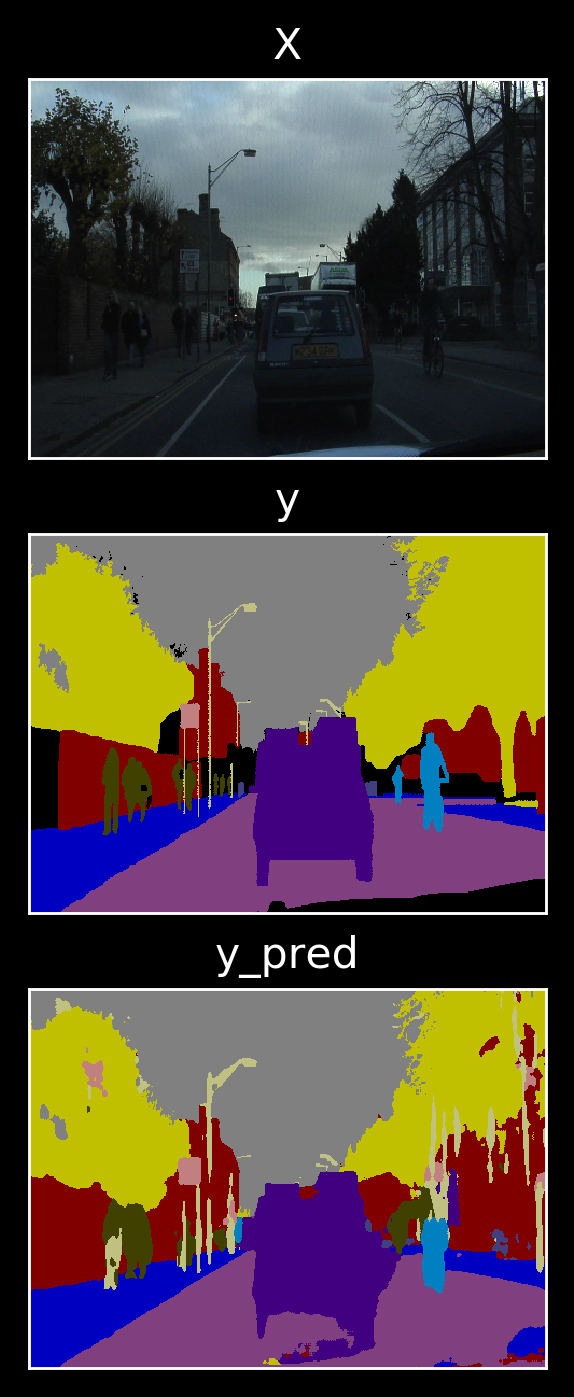
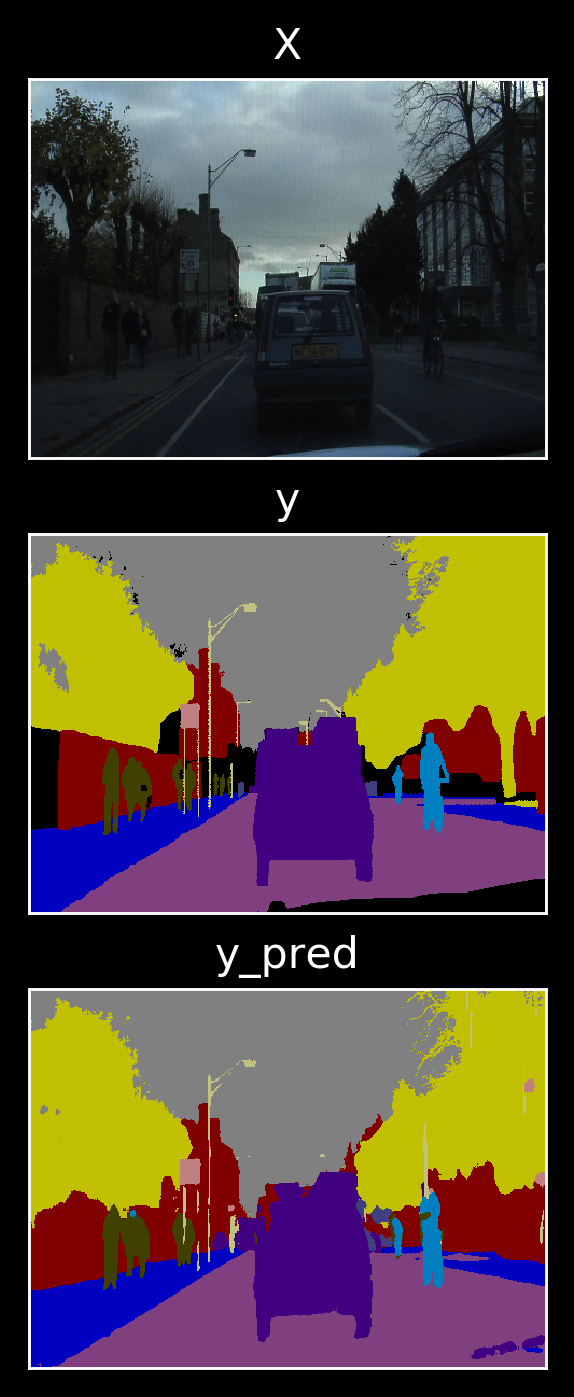
update Tiramisu results

diff --git a/README.md b/README.md
@@ -184,13 +184,13 @@ The following table describes training hyperparameters.
 | 224 x 224 | 200    | 3          | 100      | RMSprop   | 1e-3 | 0.995   | 20%     |
 | 352 x 480 | 200    | 1          | 50       | RMSprop   | 1e-4 | 1.000   | 20%     |
 
--   random vertical flips of images during training
+-   random _horizontal_ flips of images during training
+    -   the paper says vertical, but their implementation clearly shows
+        horizontal flips (likely a typo). Horizontal make more sense than
+        vertical anyway and produces empirically better test results
 -   batch normalization statistics computed _per batch_ during training,
     validation, and testing
--   median frequency balancing of class labels ([Eigen et al. (2014)][])
-    -   weighted categorical cross-entropy loss function
--   local contrast normalization of inputs ([LeCun et al. (2009)][])
--   skip connections ([Jégou et al. (2016)][])
+-   skip connections between encoder and decoder ([Jégou et al. (2016)][])
 
 ### Quantitative Results
 
@@ -198,20 +198,20 @@ The following table outlines the testing results from 103 Layers Tiramisu.
 
 | Metric                  | Test Score |
 |:------------------------|:-----------|
-| Global Accuracy         | 0.835221
-| Mean Per Class Accuracy | 0.652682
-| Mean I/U                | 0.443558
-| Bicyclist               | 0.098166
-| Building                | 0.596728
-| Car                     | 0.448302
-| Column/Pole             | 0.197154
-| Fence                   | 0.141940
-| Pedestrian              | 0.209208
-| Road                    | 0.879248
-| Sidewalk                | 0.723948
-| Sign                    | 0.138548
-| Sky                     | 0.892510
-| Vegetation              | 0.553382
+| Global Accuracy         | 0.893243
+| Mean Per Class Accuracy | 0.645533
+| Mean I/U                | 0.499167
+| Bicyclist               | 0.098403
+| Building                | 0.709252
+| Car                     | 0.548525
+| Column/Pole             | 0.294447
+| Fence                   | 0.098811
+| Pedestrian              | 0.342050
+| Road                    | 0.900283
+| Sidewalk                | 0.787167
+| Sign                    | 0.209551
+| Sky                     | 0.907727
+| Vegetation              | 0.594623
 
 ### Qualitative Results
 
